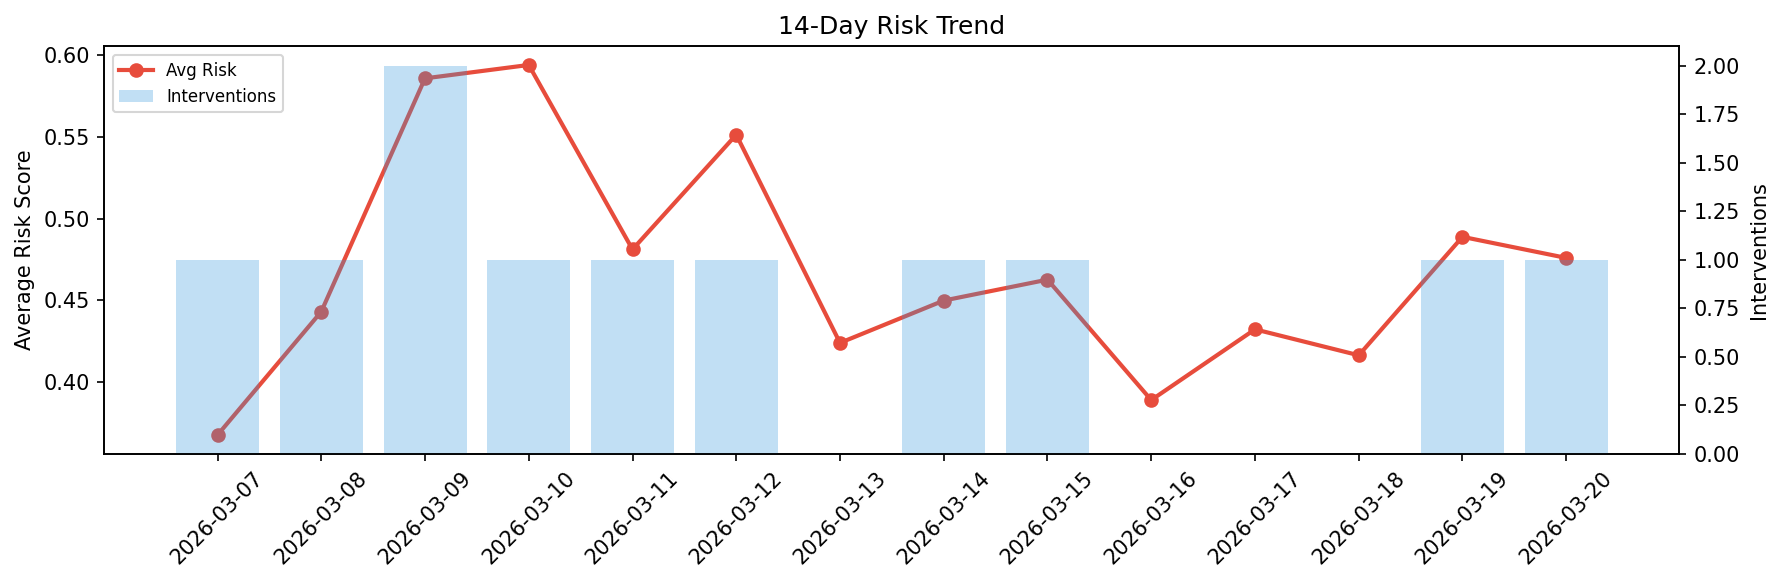
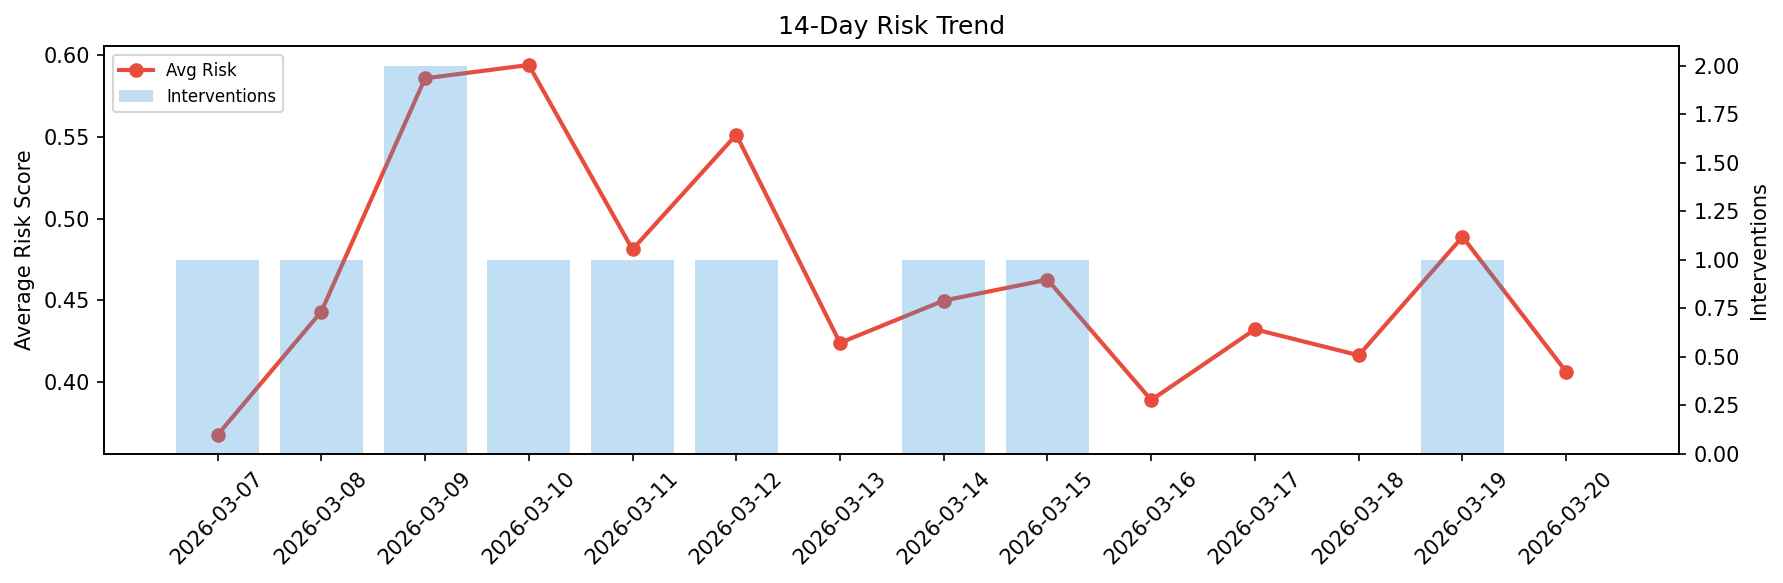
agent-improvement: daily cycle 2026-03-20T15:03

Changed region(s): [[0.802, 0.4014, 0.9254, 0.8027]]

diff --git a/logs/2026-03-20.md b/logs/2026-03-20.md
@@ -1,6 +1,6 @@
 # Agent Improvement Report — 2026-03-20
 
-**Cycle ID:** `30bf7ac5` | **Avg Risk:** 0.476 | **Interventions:** 1/4
+**Cycle ID:** `9c1d12a4` | **Avg Risk:** 0.4063 | **Interventions:** 0/4
 
 ![Dashboard](2026-03-20_dashboard.png)
 
@@ -10,18 +10,18 @@
 
 | Domain | Risk Score | Decision | Alerts |
 |--------|-----------|----------|--------|
-| code_review | 0.6699 | intervene | coverage |
-| incident_response | 0.4438 | monitor | severity |
-| data_pipeline | 0.4054 | monitor | none |
-| deployment | 0.3849 | monitor | none |
+| code_review | 0.5528 | monitor | duplication |
+| incident_response | 0.2631 | monitor | none |
+| data_pipeline | 0.4845 | monitor | volume_anomaly |
+| deployment | 0.3249 | monitor | none |
 
 ## Delta vs Yesterday
 
 | Domain | Today | Yesterday | Change |
 |--------|-------|-----------|--------|
-| code_review | 0.6699 | 0.3718 | 📈 80.2% |
-| incident_response | 0.4438 | 0.4051 | 📈 9.6% |
-| data_pipeline | 0.4054 | 0.8192 | 📉 -50.5% |
-| deployment | 0.3849 | 0.3594 | 📈 7.1% |
+| code_review | 0.5528 | 0.3718 | 📈 48.7% |
+| incident_response | 0.2631 | 0.4051 | 📉 -35.1% |
+| data_pipeline | 0.4845 | 0.8192 | 📉 -40.9% |
+| deployment | 0.3249 | 0.3594 | 📉 -9.6% |
 
 **Refinement:** `{'adjustment': 'maintain', 'trend': 'improving', 'window': 4}`
